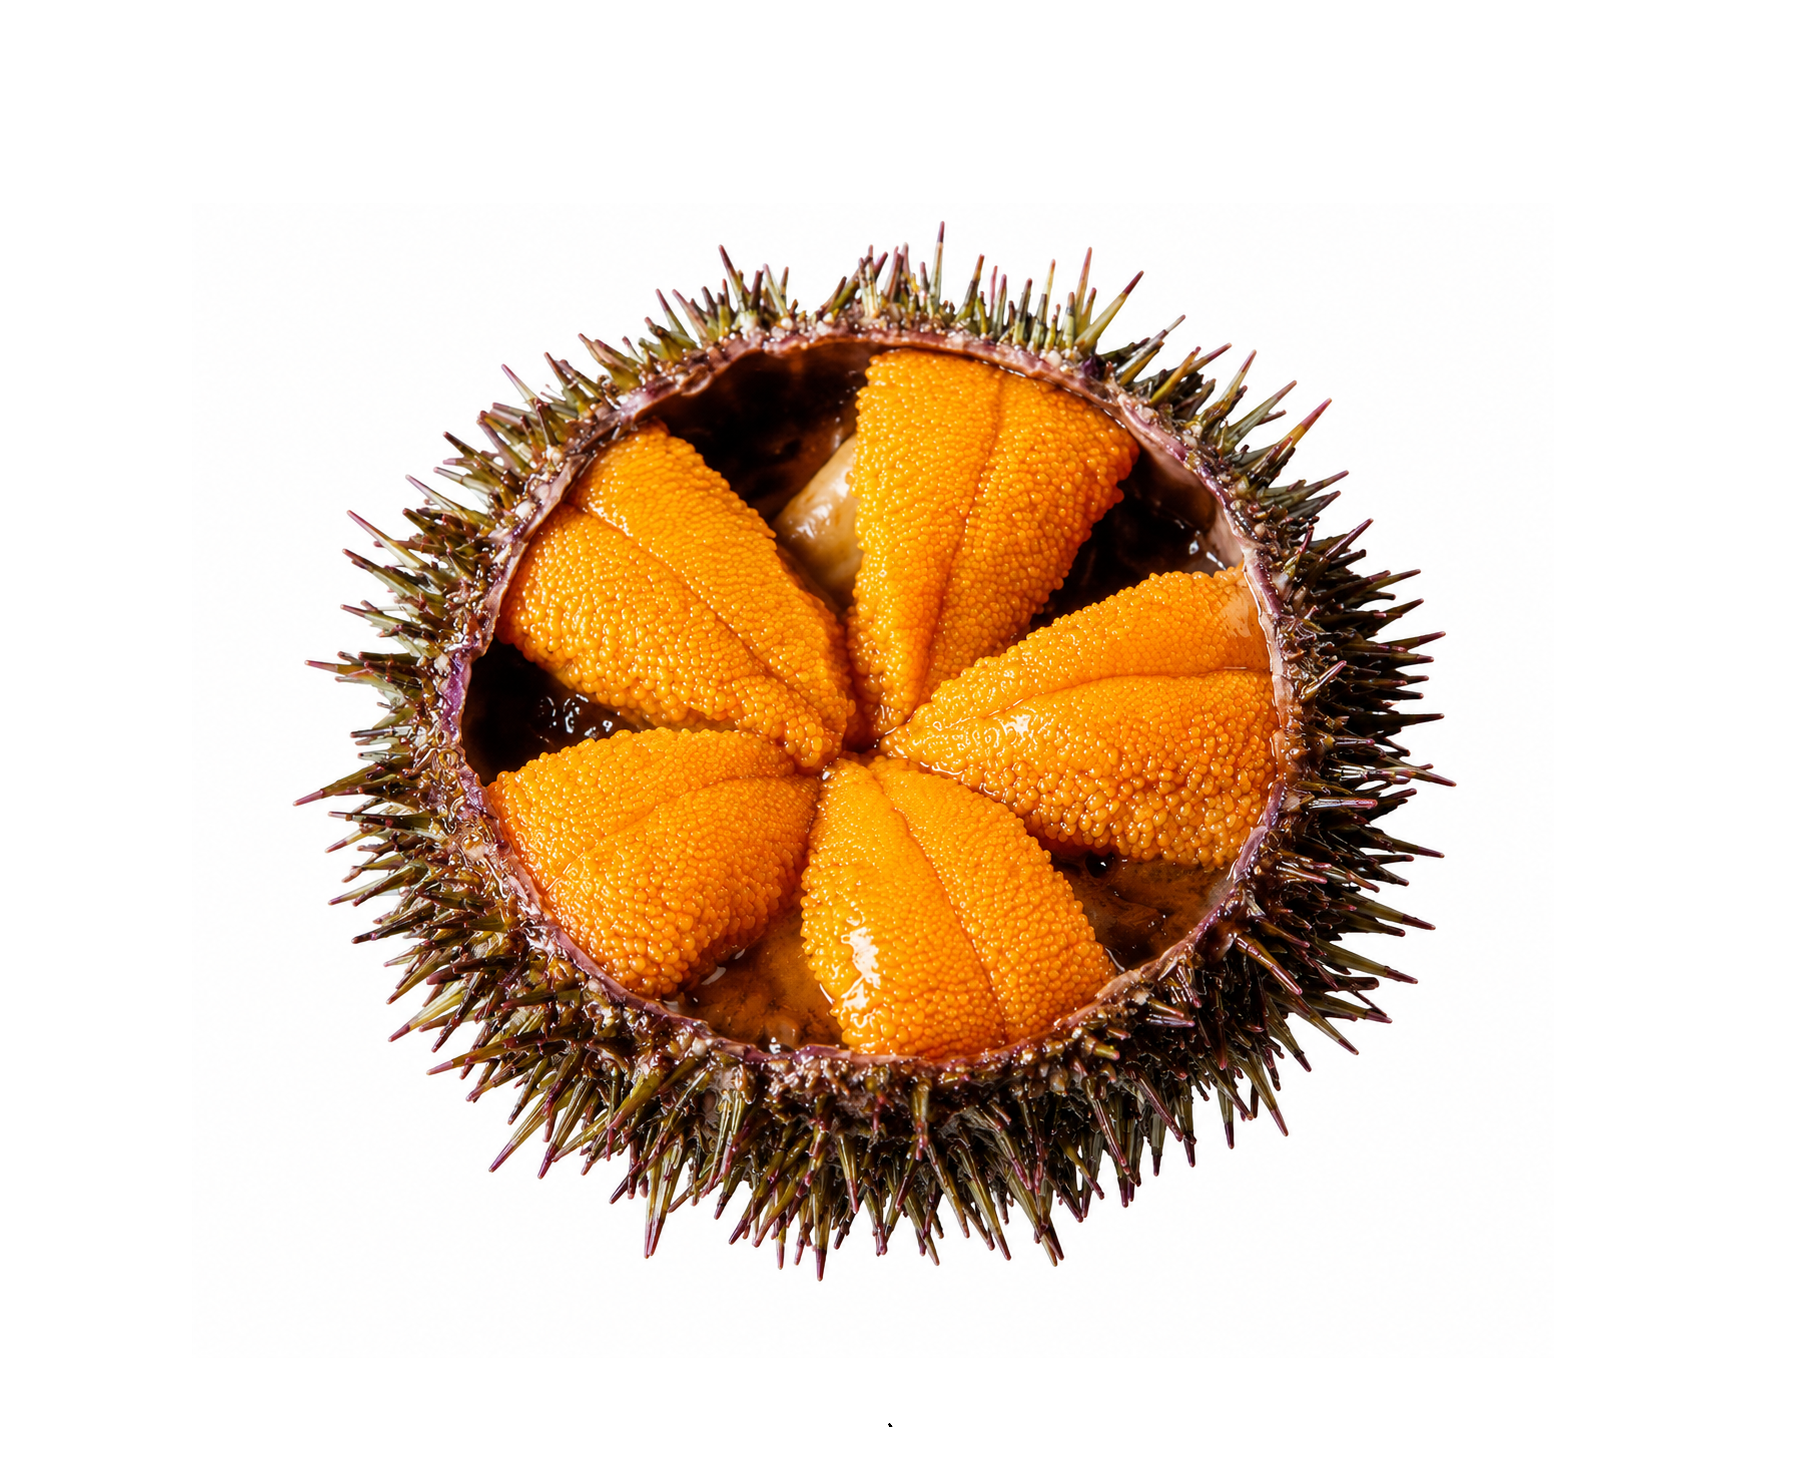
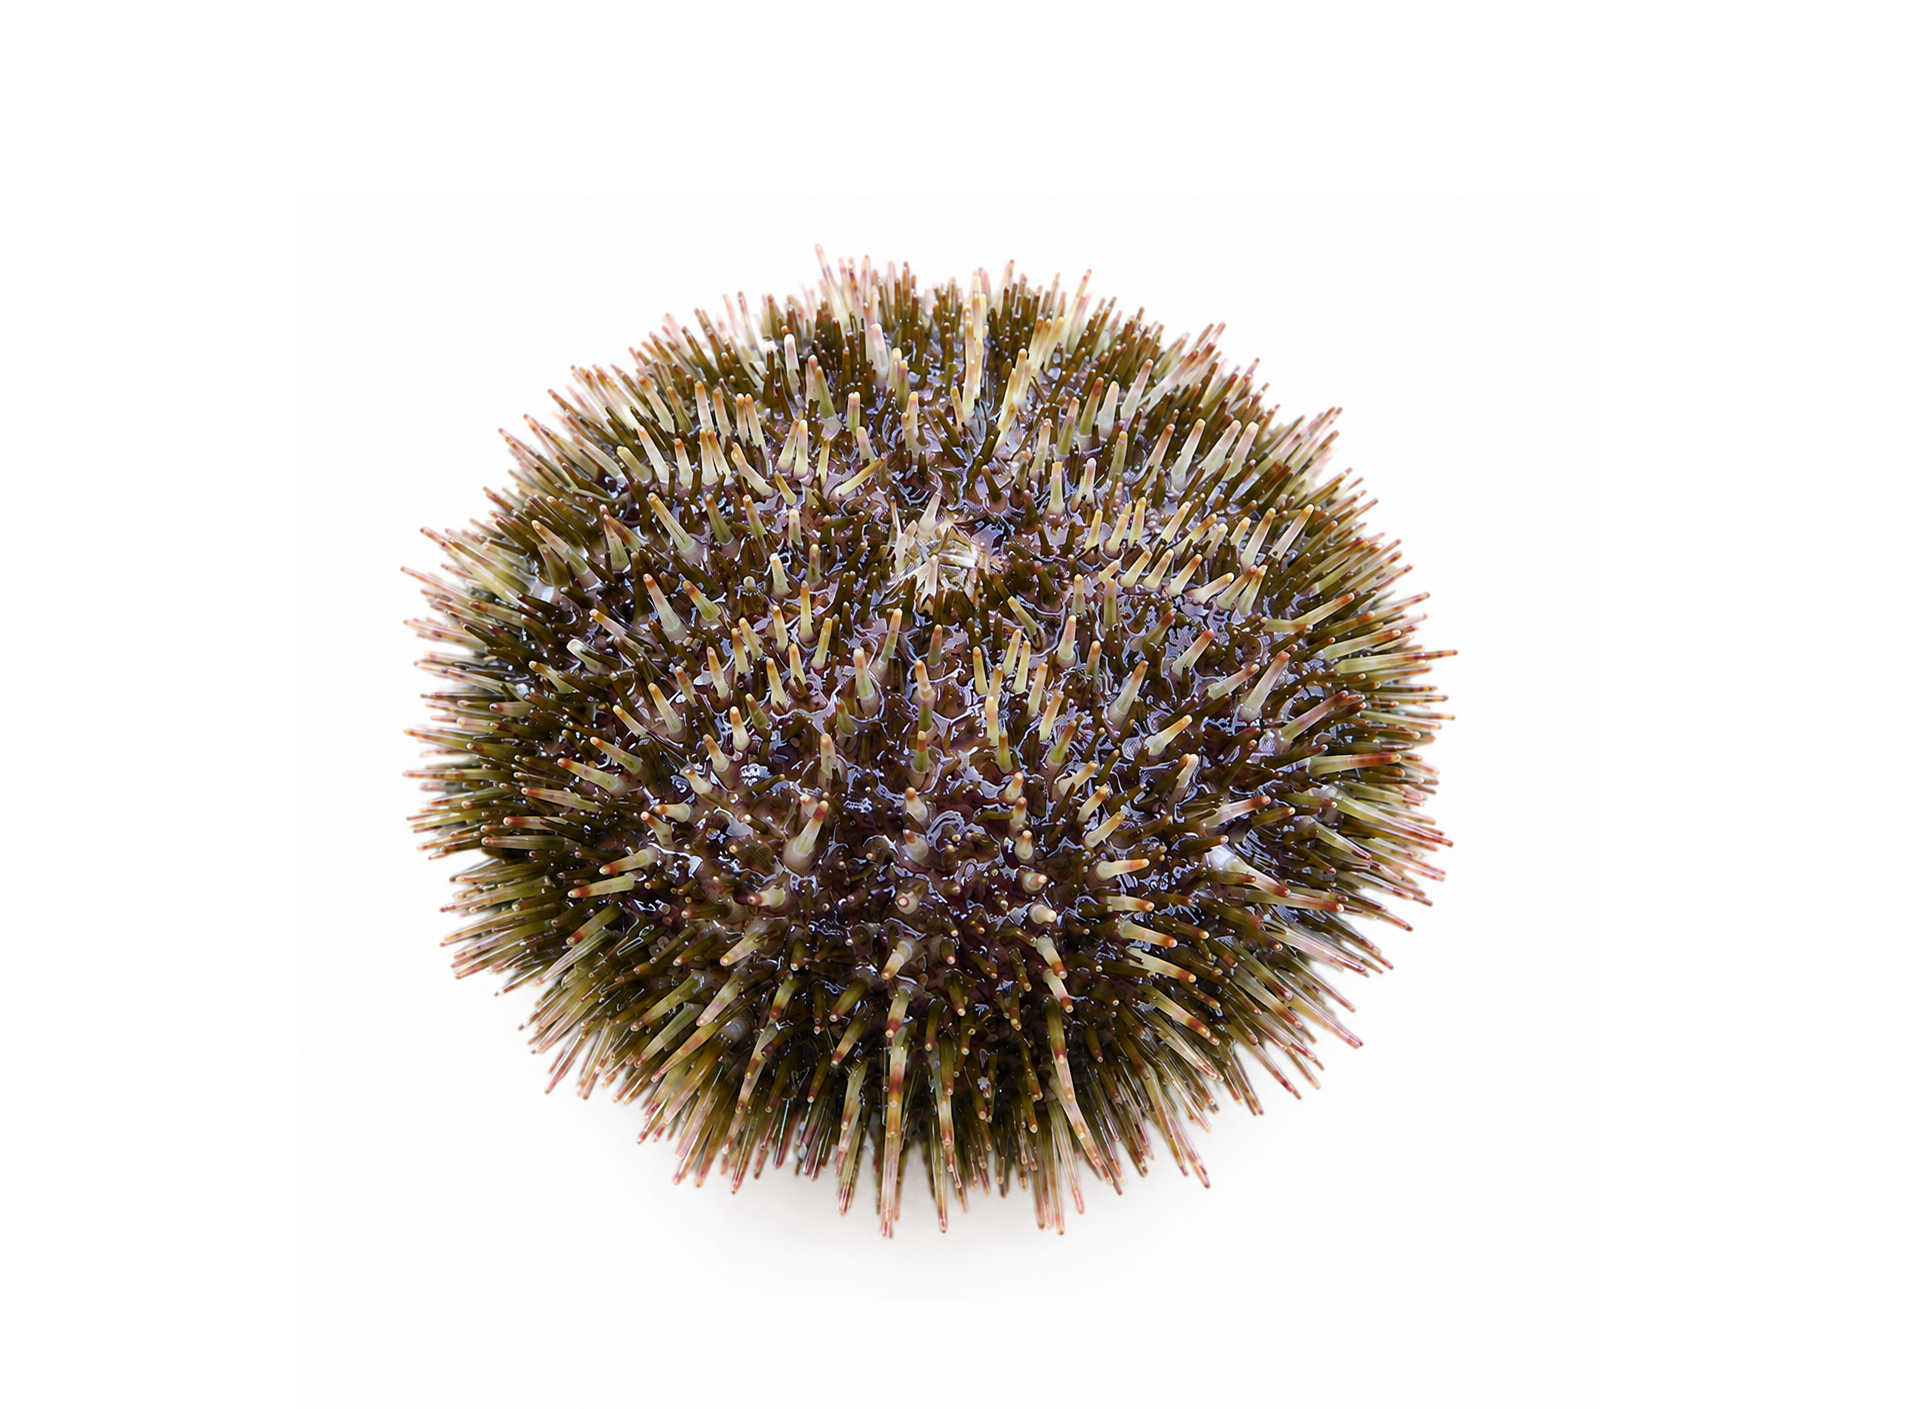
Update uni images

diff --git a/src/data/menuItems.ts b/src/data/menuItems.ts
@@ -119,13 +119,13 @@ export const menuItems: MenuItem[] = [
   },
 
   {
-    chinese: "艶然·虾夷马粪海胆",
-    english: "Enzen Ezo Bafun Uni",
-    image: "/images/fish/enzen-bafun-uni.png",
+    chinese: "艶然·北紫海胆",
+    english: "Kita Murasaki Uni",
+    image: "/images/fish/kika-uni.png",
     description:
-      "虾夷马粪海胆色泽浓郁、味道集中，以甜味、鲜味和柔滑质地著称。",
-    season: "Seasonal",
-    taste: "Sweet · Rich · Umami",
+      "北紫海胆（Northern sea urchin）色泽浓郁、味道集中，以甜味、鲜味和柔滑质地著称。",
+    season: "Summer",
+    taste: "Sweet · Delicate · Clean",
   },
 
   {
@@ -135,7 +135,7 @@ export const menuItems: MenuItem[] = [
     description:
       "高等级虾夷马粪海胆，拥有浓郁海洋鲜味和柔滑、接近奶油般的口感。",
     season: "Seasonal",
-    taste: "Rich · Sweet · Creamy",
+    taste: "Rich · Umami · Creamy",
   },
 
   {
